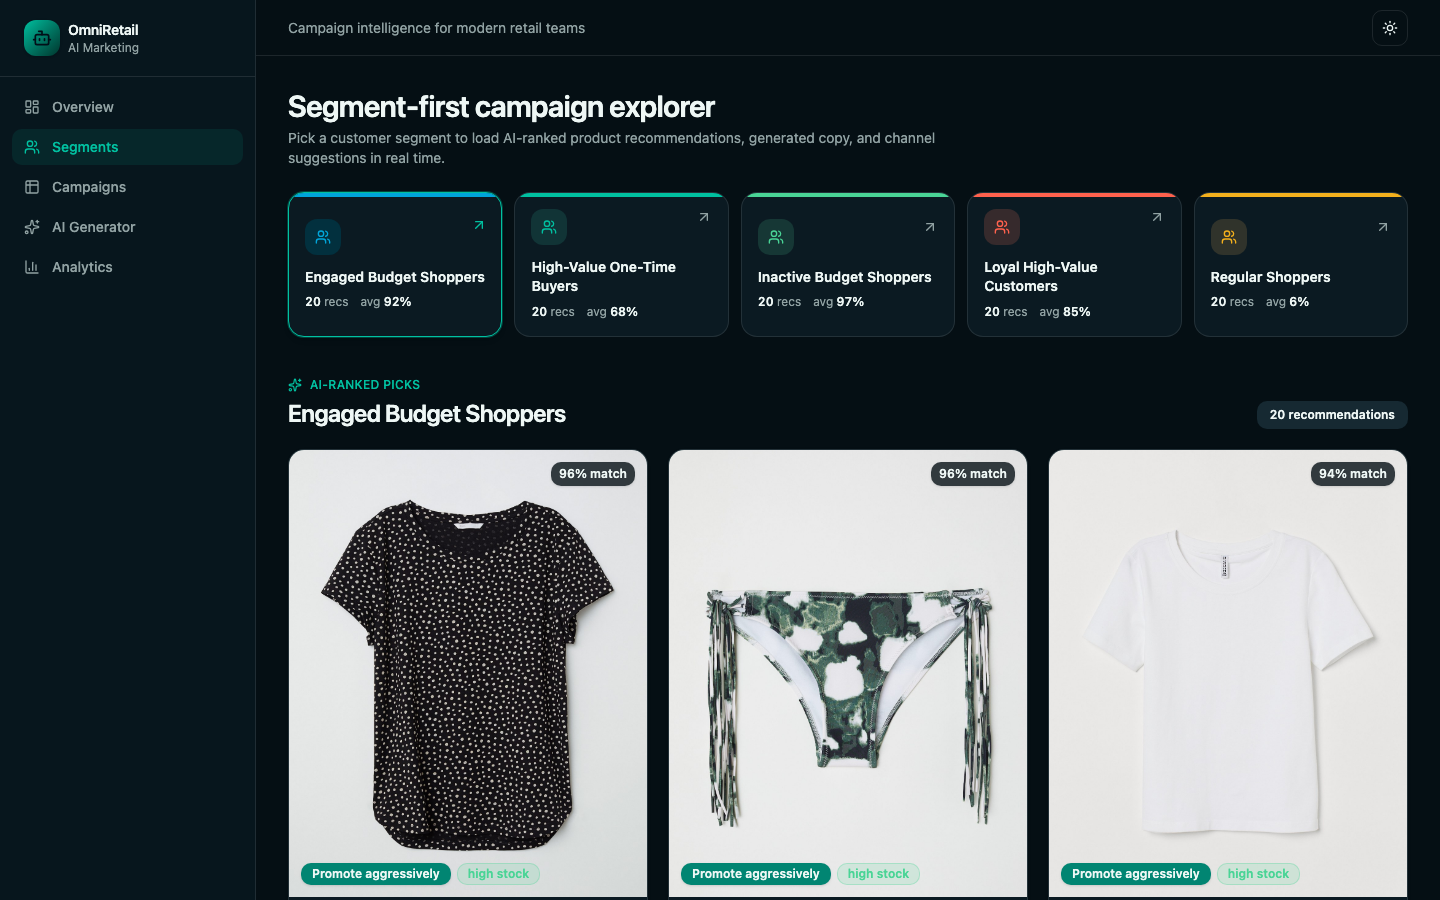
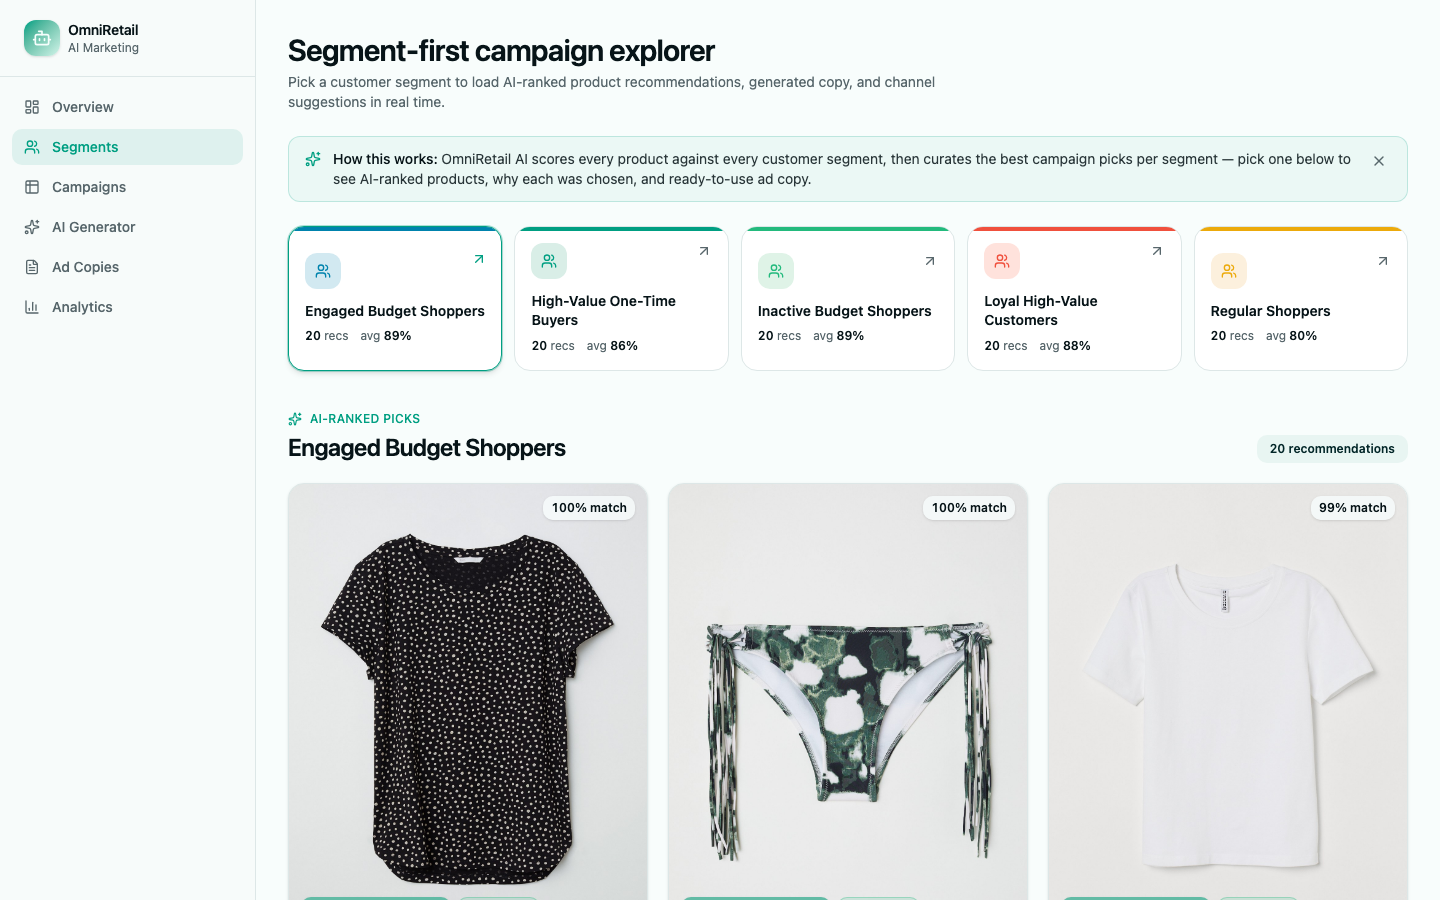
Update README with current screenshots and real model-evaluation charts
- Retook all 6 dashboard screenshots (previous ones predate the theme
  removal, Ad Copies page, and Segments-as-landing-page change) and added
  a new one for Ad Copies.
- Added scripts/plot_purchase_model_evaluation.py, which reruns the exact
  deterministic training split (random_state=42) behind the numbers in
  reports/evaluation.md to produce a real ROC curve, confusion matrix, and
  feature-importance chart for the purchase-intent model - there were
  previously no visuals for it, only text metrics.
- Fixed a stale claim that product images "won't load on the deployed
  backend" - false since the images-bundling fix; corrected to describe
  what's actually bundled and why.
- Updated feature list, view count/routes, and roadmap to reflect the
  strategy-diversification and Ad Copies work; added limitations entries
  for the relative price tier and the no-upload-step design decision.
- Tidied one internal .gitignore comment referencing a local dev tool.

diff --git a/scripts/plot_purchase_model_evaluation.py b/scripts/plot_purchase_model_evaluation.py
@@ -1,0 +1,107 @@
+"""Generates real evaluation charts for the purchase-intent model (ROC
+curve, confusion matrix, feature importance) for reports/figures/ and the
+README. Reruns the exact same deterministic pipeline as
+scripts/run_purchase_intent.py (same random_state=42 throughout) purely to
+get y_test/y_proba/the fitted model for plotting — it does not overwrite
+the saved model artifacts or predictions CSV.
+
+Usage: PYTHONPATH=. python scripts/plot_purchase_model_evaluation.py
+"""
+
+import matplotlib
+matplotlib.use("Agg")
+import matplotlib.pyplot as plt
+import numpy as np
+import pandas as pd
+from sklearn.metrics import RocCurveDisplay, confusion_matrix, roc_auc_score
+
+from src.utils.paths import PROCESSED_DATA_DIR, REPORTS_DIR
+from src.features.purchase_features import (
+    create_modeling_pairs,
+    build_purchase_modeling_dataset,
+    add_purchase_interaction_features,
+    encode_purchase_features,
+)
+from src.models.purchase_intent import (
+    train_purchase_intent_model,
+    get_feature_importance,
+)
+
+FIGURES_DIR = REPORTS_DIR / "figures"
+
+TEAL = "#2f9e8f"
+NAVY = "#1f3b57"
+
+
+def main():
+    print("Rebuilding the exact modeling dataset (random_state=42)...")
+    transactions = pd.read_csv(PROCESSED_DATA_DIR / "transactions.csv")
+    articles = pd.read_csv(PROCESSED_DATA_DIR / "articles_enriched.csv")
+    customers = pd.read_csv(PROCESSED_DATA_DIR / "customer_segments.csv")
+
+    modeling_pairs = create_modeling_pairs(
+        transactions=transactions, articles=articles, random_state=42
+    )
+    modeling_df = build_purchase_modeling_dataset(
+        modeling_pairs=modeling_pairs, customers=customers, articles=articles
+    )
+    modeling_df = add_purchase_interaction_features(modeling_df)
+    X_encoded, y = encode_purchase_features(modeling_df)
+
+    print("Training (same as run_purchase_intent.py)...")
+    model, X_train, X_test, y_train, y_test = train_purchase_intent_model(
+        X=X_encoded, y=y
+    )
+
+    y_proba = model.predict_proba(X_test)[:, 1]
+    y_pred = model.predict(X_test)
+    auc = roc_auc_score(y_test, y_proba)
+    print(f"ROC-AUC: {auc:.3f} (should match reports/evaluation.md: 0.926)")
+
+    # --- ROC curve ---
+    fig, ax = plt.subplots(figsize=(6, 5))
+    display = RocCurveDisplay.from_predictions(y_test, y_proba, ax=ax, name="XGBoost")
+    display.line_.set_color(TEAL)
+    ax.plot([0, 1], [0, 1], linestyle="--", color="#999999", linewidth=1, label="Chance")
+    ax.set_title("Purchase-Intent Model — ROC Curve (held-out test set)")
+    ax.legend(loc="lower right")
+    fig.tight_layout()
+    fig.savefig(FIGURES_DIR / "purchase_intent_roc_curve.png", dpi=150)
+    plt.close(fig)
+
+    # --- Confusion matrix ---
+    cm = confusion_matrix(y_test, y_pred)
+    fig, ax = plt.subplots(figsize=(5.5, 5))
+    im = ax.imshow(cm, cmap="Blues")
+    labels = ["No purchase", "Purchase"]
+    ax.set_xticks([0, 1], labels)
+    ax.set_yticks([0, 1], labels)
+    ax.set_xlabel("Predicted")
+    ax.set_ylabel("Actual")
+    ax.set_title(f"Purchase-Intent Model — Confusion Matrix (n={cm.sum():,})")
+    for i in range(2):
+        for j in range(2):
+            color = "white" if cm[i, j] > cm.max() / 2 else "black"
+            ax.text(j, i, f"{cm[i, j]:,}", ha="center", va="center", color=color, fontsize=13)
+    fig.colorbar(im, ax=ax, fraction=0.046, pad=0.04)
+    fig.tight_layout()
+    fig.savefig(FIGURES_DIR / "purchase_intent_confusion_matrix.png", dpi=150)
+    plt.close(fig)
+
+    # --- Feature importance ---
+    importance = get_feature_importance(model, X_encoded.columns.tolist()).head(12)
+    fig, ax = plt.subplots(figsize=(7, 5.5))
+    y_pos = np.arange(len(importance))
+    ax.barh(y_pos, importance["importance"][::-1], color=NAVY)
+    ax.set_yticks(y_pos, importance["feature"][::-1])
+    ax.set_xlabel("XGBoost feature importance")
+    ax.set_title("Purchase-Intent Model — Top 12 Features")
+    fig.tight_layout()
+    fig.savefig(FIGURES_DIR / "purchase_intent_feature_importance.png", dpi=150)
+    plt.close(fig)
+
+    print(f"Saved 3 charts to {FIGURES_DIR}")
+
+
+if __name__ == "__main__":
+    main()

diff --git a/README.md b/README.md
@@ -23,10 +23,11 @@ Retail marketing teams manage thousands of products across multiple customer seg
 - **Customer segmentation** — KMeans clustering over RFM-style behavioral features, producing five named segments (e.g. *Loyal High-Value Customers*, *Inactive Budget Shoppers*) with a documented strategy per segment ([reports/segment_strategy.md](reports/segment_strategy.md))
 - **Product enrichment** — derives style/occasion tags and marketing attributes per product from catalog metadata
 - **Purchase-intent prediction** — an XGBoost classifier trained on simulated customer-product interactions, predicting purchase probability per customer-product pair
-- **Inventory-aware campaign ranking** — combines purchase probability × inventory signal × segment-fit score into a single campaign score, with a human-readable ranking explanation per recommendation
+- **Inventory-aware, strategy-diversified campaign ranking** — combines purchase probability × inventory signal × segment-fit score into a single campaign score, then allocates each segment's curated picks across every promotion strategy it has candidates for (not just the single highest-scoring one), with a human-readable ranking explanation per recommendation
 - **RAG-grounded ad-copy generation** — a FAISS index over the ~105K-product catalog (TF-IDF + SVD embeddings) retrieves similar products at request time to ground a live Claude Haiku call, so generated copy is tied to real catalog context instead of a fixed template
-- **FastAPI backend** — serves segments, ranked campaigns, summary stats, and live RAG-grounded copy generation as JSON
-- **React dashboard** — a TanStack Start app with 5 views: overview, segment explorer, campaign list, analytics, and a campaign generator
+- **Ad copy review & export workflow** — a permanent library of pre-generated sample copy plus anything generated live in your own session, with one-click CSV export — closes the loop from "generate" to "hand off to a marketing team"
+- **FastAPI backend** — serves segments, ranked campaigns, summary stats, ad-copy library, and live RAG-grounded copy generation as JSON, with per-endpoint rate limiting and in-memory caching to keep the public demo's cost bounded
+- **React dashboard** — a TanStack Start app with 6 views: segment explorer (landing page), campaign list, AI generator, ad copies, analytics, and an overview summary — each with a one-line, dismissible "how this works" explainer for first-time visitors
 - **Real, reproducible evaluation** — silhouette score, ROC-AUC, ranking-quality distributions, and a quantitative RAG grounding check, all computed from this repo's own pipeline ([reports/evaluation.md](reports/evaluation.md))
 
 ## Tech Stack
@@ -36,7 +37,7 @@ Retail marketing teams manage thousands of products across multiple customer seg
 | Data / ML | Python, pandas, NumPy, scikit-learn, XGBoost, joblib |
 | RAG | FAISS, scikit-learn (TF-IDF + TruncatedSVD embeddings), Anthropic Claude (`claude-haiku-4-5`) |
 | Data source | [Kaggle H&M Personalized Fashion Recommendations](https://www.kaggle.com/competitions/h-and-m-personalized-fashion-recommendations) dataset, via `kagglehub` |
-| Backend | FastAPI, Uvicorn |
+| Backend | FastAPI, Uvicorn, slowapi (rate limiting) |
 | Frontend | React 19, TanStack Start/Router/Query, Tailwind CSS, Radix UI |
 | Deploy target | Frontend on Cloudflare Workers (Vite plugin + `wrangler` config included); backend on Railway or Render (`railway.json` / `render.yaml` both included) |
 
@@ -63,12 +64,17 @@ flowchart LR
     H --> K[(data/processed/hm/*.csv)]
     E -->|scripts/build_product_index.py| N[(saved_models/rag\nFAISS index)]
 
+    N -->|scripts/generate_seed_ad_copy.py\none-time, real Claude calls| P[(pregenerated_ad_copy.csv)]
+
     K --> L[FastAPI backend]
+    P --> L
     I -.-> L
     J -.-> L
     N -.->|retrieval| L
     L -->|"/generate-copy"| O[Claude Haiku\nRAG-grounded ad copy]
+    O -->|session-only, never sent back| Q[Browser sessionStorage]
     L --> M[React dashboard]
+    Q --> M
 ```
 
 ## Setup
@@ -110,6 +116,8 @@ Embeds the enriched product catalog (TF-IDF + SVD) and builds a FAISS index at `
 
 Then copy `.env.example` to `.env` and set `ANTHROPIC_API_KEY` (get one at [console.anthropic.com](https://console.anthropic.com/)) — required for `/generate-copy`. Without it, the dashboard still runs fine and falls back to the pre-computed ad-copy template.
 
+The Ad Copies page's permanent sample library (`data/processed/hm/pregenerated_ad_copy.csv`) is already committed, so no extra step is needed to see it locally. To regenerate it (real Claude API calls): `PYTHONPATH=. python scripts/generate_seed_ad_copy.py`.
+
 ### 5. Run the backend
 
 ```bash
@@ -131,13 +139,14 @@ Dashboard runs at `http://localhost:3000` (TanStack Start dev server).
 
 ## Demo
 
-With the backend and frontend both running:
+With the backend and frontend both running (`/` redirects straight to Segments — the stronger first-run experience):
 
-1. **Overview** (`/`) — total campaigns, segment count, average campaign score
-2. **Segments** (`/segments`) — explore each customer segment and its top recommended products
-3. **Campaigns** (`/campaigns`) — search/filter the full ranked campaign list
-4. **Analytics** (`/analytics`) — score distributions and inventory-level breakdowns
-5. **Generator** (`/generator`) — walks through a single campaign recommendation with its ranking explanation, and generates live RAG-grounded ad copy via Claude (falls back to a pre-computed template if `ANTHROPIC_API_KEY` isn't set)
+1. **Segments** (`/segments`) — explore each customer segment and its top recommended products, with images, price tier, and an expandable "why this was picked" panel
+2. **Campaigns** (`/campaigns`) — search/filter the full ranked campaign list
+3. **AI Generator** (`/generator`) — walks through a single campaign recommendation with its ranking explanation, and generates live RAG-grounded ad copy via Claude (falls back to a pre-computed template if `ANTHROPIC_API_KEY` isn't set)
+4. **Ad Copies** (`/ad-copies`) — a permanent library of sample generated copy plus anything generated live in your own session, with CSV export
+5. **Analytics** (`/analytics`) — score distributions and inventory-level breakdowns, computed across the full scored catalog
+6. **Overview** (`/overview`) — a 4-step workflow guide plus summary stats (products scored, avg campaign score, active strategies)
 
 ## Deploying
 
@@ -153,7 +162,7 @@ Both configs are kept in the repo — [`render.yaml`](render.yaml) and [`railway
 
 Either way, note the deployed URL — the frontend needs it next.
 
-**Known limitation on either host:** product images won't load on the deployed backend — the H&M image set (~30GB) isn't in the repo (see `.gitignore`). The dashboard already handles this gracefully (falls back to a placeholder icon per product), so nothing breaks; it's just photo-less in production. Images work fully when running locally after `scripts/download_data.py`.
+**On product images:** the full H&M image set (~30GB) isn't in the repo (see `.gitignore`) — but the deployed app only ever references the ~99 products in the curated recommendation set, so just those (~25MB) are bundled and tracked directly, and load correctly in production. If you extend the curated set to reference different products, re-bundle their images the same way (see `data/processed/hm/images/`) — the dashboard falls back to a placeholder icon for anything not bundled, so nothing breaks either way.
 
 ### Frontend → Cloudflare Workers
 
@@ -172,11 +181,7 @@ npm run deploy        # wraps `wrangler deploy`
 
 ## Screenshots
 
-**Overview** — live campaign stats, top recommendations, and strategy mix
-
-![Dashboard overview](reports/figures/dashboard_overview.png)
-
-**Segments** — pick a segment, browse its AI-ranked product picks with images
+**Segments** (landing page) — pick a segment, browse its AI-ranked product picks with real images, price tier, and a "why this was picked" panel
 
 ![Segment explorer](reports/figures/dashboard_segments.png)
 
@@ -184,27 +189,45 @@ npm run deploy        # wraps `wrangler deploy`
 
 ![Campaign list](reports/figures/dashboard_campaigns.png)
 
-**AI Generator** — single-campaign recommendation with its ranking explanation
+**AI Generator** — live, RAG-grounded ad copy generated by Claude on demand, grounded in real similar products
 
 ![AI campaign generator](reports/figures/dashboard_generator.png)
 
-**Analytics** — score and inventory distributions across segments
+**Ad Copies** — a permanent sample library plus anything generated live this session, with CSV export
+
+![Ad copies library](reports/figures/dashboard_ad_copies.png)
+
+**Analytics** — score and inventory distributions across the full scored catalog
 
 ![Analytics](reports/figures/dashboard_analytics.png)
 
-**Modeling notebooks** — customer segmentation (PCA projection and elbow method)
+**Overview** — a 4-step workflow guide plus live campaign stats and strategy mix
+
+![Dashboard overview](reports/figures/dashboard_overview.png)
+
+## Model Training & Evaluation Visuals
+
+**Customer segmentation** — PCA projection (showing why silhouette score is moderate — real behavioral segments overlap) and the elbow-method justification for k=5
 
 ![Customer segments (PCA projection)](reports/figures/customer_pca_plot.png)
 ![KMeans elbow method](reports/figures/kmeans_elbow_method.png)
+
+**Purchase-intent model (XGBoost)** — ROC curve, confusion matrix, and top feature importances on the held-out test set (all regenerated from the actual saved model — see `scripts/plot_purchase_model_evaluation.py`)
+
+![Purchase-intent ROC curve](reports/figures/purchase_intent_roc_curve.png)
+![Purchase-intent confusion matrix](reports/figures/purchase_intent_confusion_matrix.png)
+![Purchase-intent feature importance](reports/figures/purchase_intent_feature_importance.png)
 
 ## Limitations & Future Improvements
 
 - **Bulk product enrichment (`product_enrichment.py`) is still rule-based** (keyword-matching for style/occasion tags) — only the on-demand ad-copy call in the Generator view (`/generate-copy`) uses a live, RAG-grounded LLM call. Extending the LLM call to bulk enrichment would mean ~105K API calls, which is a batch-processing / cost tradeoff worth its own write-up rather than doing by default.
 - **Catalog embeddings are TF-IDF + SVD, not neural embeddings.** This was a deliberate platform-driven choice — no current `torch` wheel supports both Intel macOS and the `numpy>=2` the rest of the stack (`pandas`, `scikit-learn`) requires — but a from-scratch build could swap in a hosted embedding API without touching the FAISS index or the generation call.
 - **Inventory levels are synthetic** (randomly assigned per product), not sourced from a real inventory system.
-- **Purchase-intent training pairs are simulated**, not from real clickstream/purchase logs beyond the H&M transaction history used for labels.
+- **Purchase-intent training pairs are simulated**, not from real clickstream/purchase logs beyond the H&M transaction history used for labels — the reported ROC-AUC measures separation from *sampled* negatives, not observed non-purchases.
+- **Price tier is relative, not absolute.** H&M's `avg_selling_price` in this dataset is a pre-anonymized 0–1 index, not real currency (42% of the full catalog is literally `0`, meaning "no price history," not "free") — the Budget/Mid-range/Premium badges are ranked against the curated set itself, not a claim about real-world pricing.
+- Cluster-to-segment-name mapping is a hardcoded index lookup, not derived from cluster properties — rerunning KMeans on different data could silently relabel segments.
 - No automated tests or CI yet.
-- Product images require a separate Kaggle download and aren't bundled in the repo.
+- No data upload/import UI anywhere in the app, by design — data prep is an offline batch pipeline (`scripts/run_full_pipeline.py`), not something a user of this dashboard does by hand.
 
 **Roadmap:**
 1. ~~Repo cleanup~~
@@ -212,6 +235,8 @@ npm run deploy        # wraps `wrangler deploy`
 3. ~~Wire the RAG-grounded generator into the FastAPI backend~~ — `POST /generate-copy`, called live from the Generator view's "Regenerate" button
 4. ~~Polish the frontend and deploy~~ — see [Deploying](#deploying) (Cloudflare Workers for the frontend, Railway or Render for the backend)
 5. ~~Add a proper evaluation write-up~~ — see [reports/evaluation.md](reports/evaluation.md) (model metrics, ranking quality, RAG grounding quality)
+6. ~~Diversify curated recommendations across strategies~~ — campaign ranking now reserves slots per promotion strategy instead of pure top-N-by-score
+7. ~~Close the loop on ad-copy generation~~ — Ad Copies review/export page, backed by a permanent sample library plus session-only live history
 
 ## License
 
